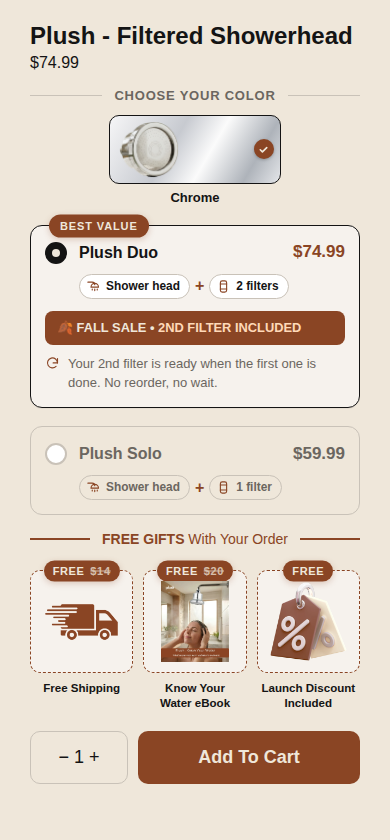
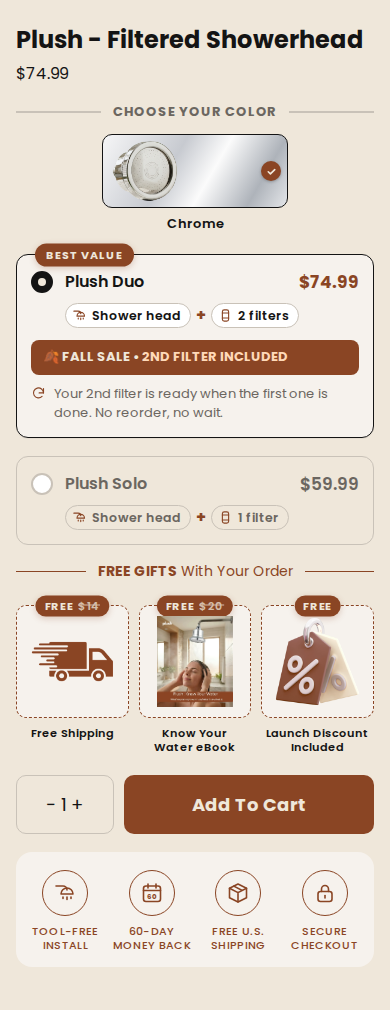
Passage à Poppins : noms des cadeaux ajustés, charte mise à jour
- Poppins est plus large qu'Inter : taille des noms de cadeaux réduite (clamp 10-13 px)
  pour que « Launch Discount Included » reste sur 2 lignes, vérifié de 300 à 420 px
- Charte : Poppins devient la police du site (décision de Yasser), remplace Jost

Claude-Session: https://claude.ai/code/session_01HH9H16axcLuBF2sbTkCmt1

diff --git a/research/brand/plush-identite.md b/research/brand/plush-identite.md
@@ -49,7 +49,8 @@ Trois raisons :
 | Police du LOGO | **League Spartan Bold** (SIL Open Font License, gratuite, usage commercial OK, dispo sur Google Fonts). Identifiée dans le PDF exporté le 3 oct. : sous-ensemble embarqué `AAAAAA+LeagueSpartan-Bold` |
 | Couleur du logo dans le fichier livré | `#222222` — à aligner avec le `#141414` du système, ou l'inverse. Les deux ne doivent pas coexister |
 | Police de TOUT LE RESTE (titres, textes, site, ads, emails) | **Jost** · à défaut **DM Sans** ou **Figtree** — Google Fonts, gratuites, usage commercial OK |
-| 🔴 À éviter partout sauf le logo | **Poppins, Montserrat, Arial, Helvetica** |
+| ✅ **Police du site, décision de Yasser le 19 oct. 2026** | **Poppins** (titres SemiBold 600, texte Regular 400, boutons SemiBold 600). Remplace Jost : choix d'affinité, même registre qu'eskiin. Ne pas rouvrir |
+| 🔴 À éviter | **Montserrat, Arial, Helvetica** |
 
 ### Couleurs — 5, et un métier pour chacune
 
